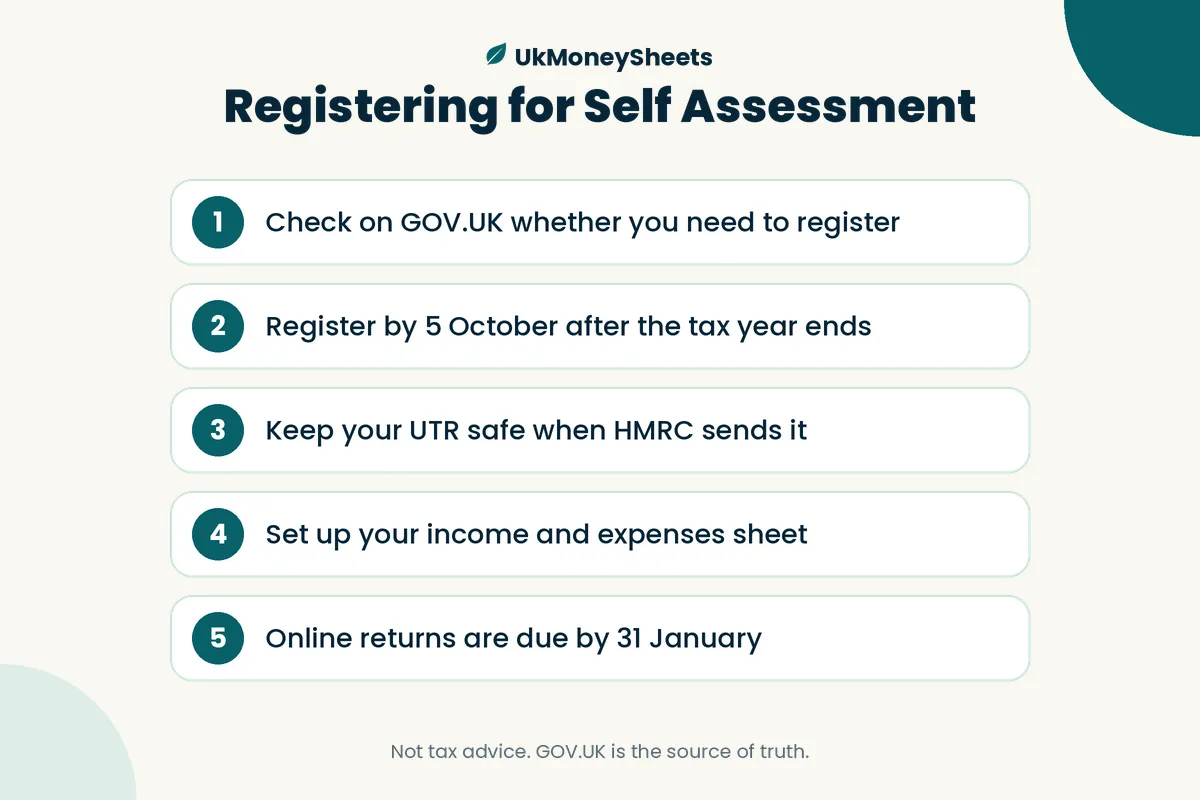
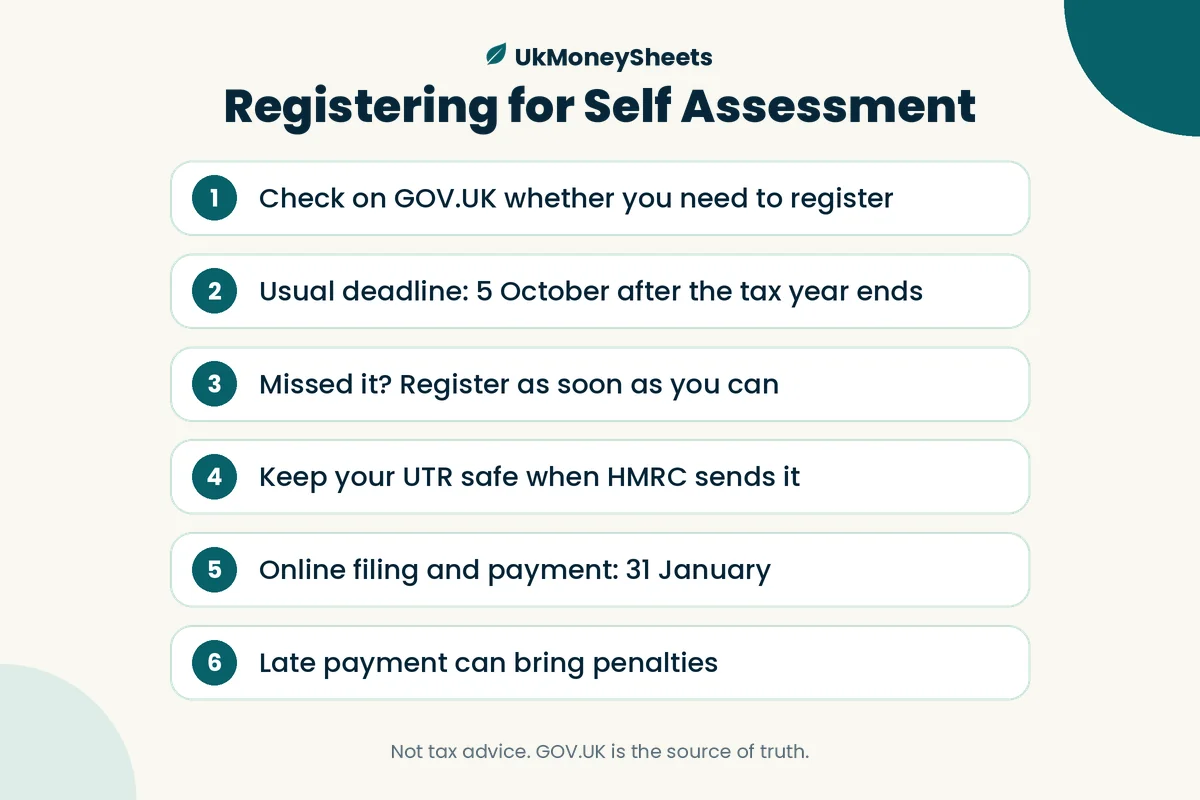
SA register guide: swap in Nia's evergreen artwork (OG, card, in-guide 2), update alts, ?v=2 cache-bust

Changed region(s): [[0.1542, 0.2188, 0.8633, 0.875], [0.8325, 0.2188, 0.8633, 0.25]]

diff --git a/src/lib/guides.ts b/src/lib/guides.ts
@@ -124,8 +124,8 @@ export const guides: GuideMeta[] = [
     featured: true,
     image: "/guides/register-self-assessment-5-october.jpg",
     imageAlt: "Register for Self Assessment: Google Sheets dashboard preview, sample data",
-    ogImage: "/og/register-self-assessment-5-october.jpg",
-    ogImageAlt: "Register for Self Assessment by 5 October \u2014 UkMoneySheets Google Sheets guide",
+    ogImage: "/og/register-self-assessment-5-october.jpg?v=2",
+    ogImageAlt: "Register for Self Assessment \u2014 UkMoneySheets Google Sheets guide",
     showHeaderImage: false,
     inGuideImages: {
       afterIntro: {
@@ -133,8 +133,8 @@ export const guides: GuideMeta[] = [
         alt: "Real Google Sheets screenshot: records ready for your 2025/26 return, sample data",
       },
       nearChecklist: {
-        src: "/guides/inguide/register-self-assessment-5-october/2.webp",
-        alt: "Registering for Self Assessment: Check on GOV.UK whether you need to register; Register by 5 October after the tax year ends; Keep your UTR safe when HMRC sends it; Set up your income and expenses sheet; Online returns are due by 31 January",
+        src: "/guides/inguide/register-self-assessment-5-october/2.webp?v=2",
+        alt: "Registering for Self Assessment: Check on GOV.UK whether you need to register; Usual deadline: 5 October after the tax year ends; Missed it? Register as soon as you can; Keep your UTR safe when HMRC sends it; Online filing and payment: 31 January; Late payment can bring penalties",
       },
     },
     shopLine:
